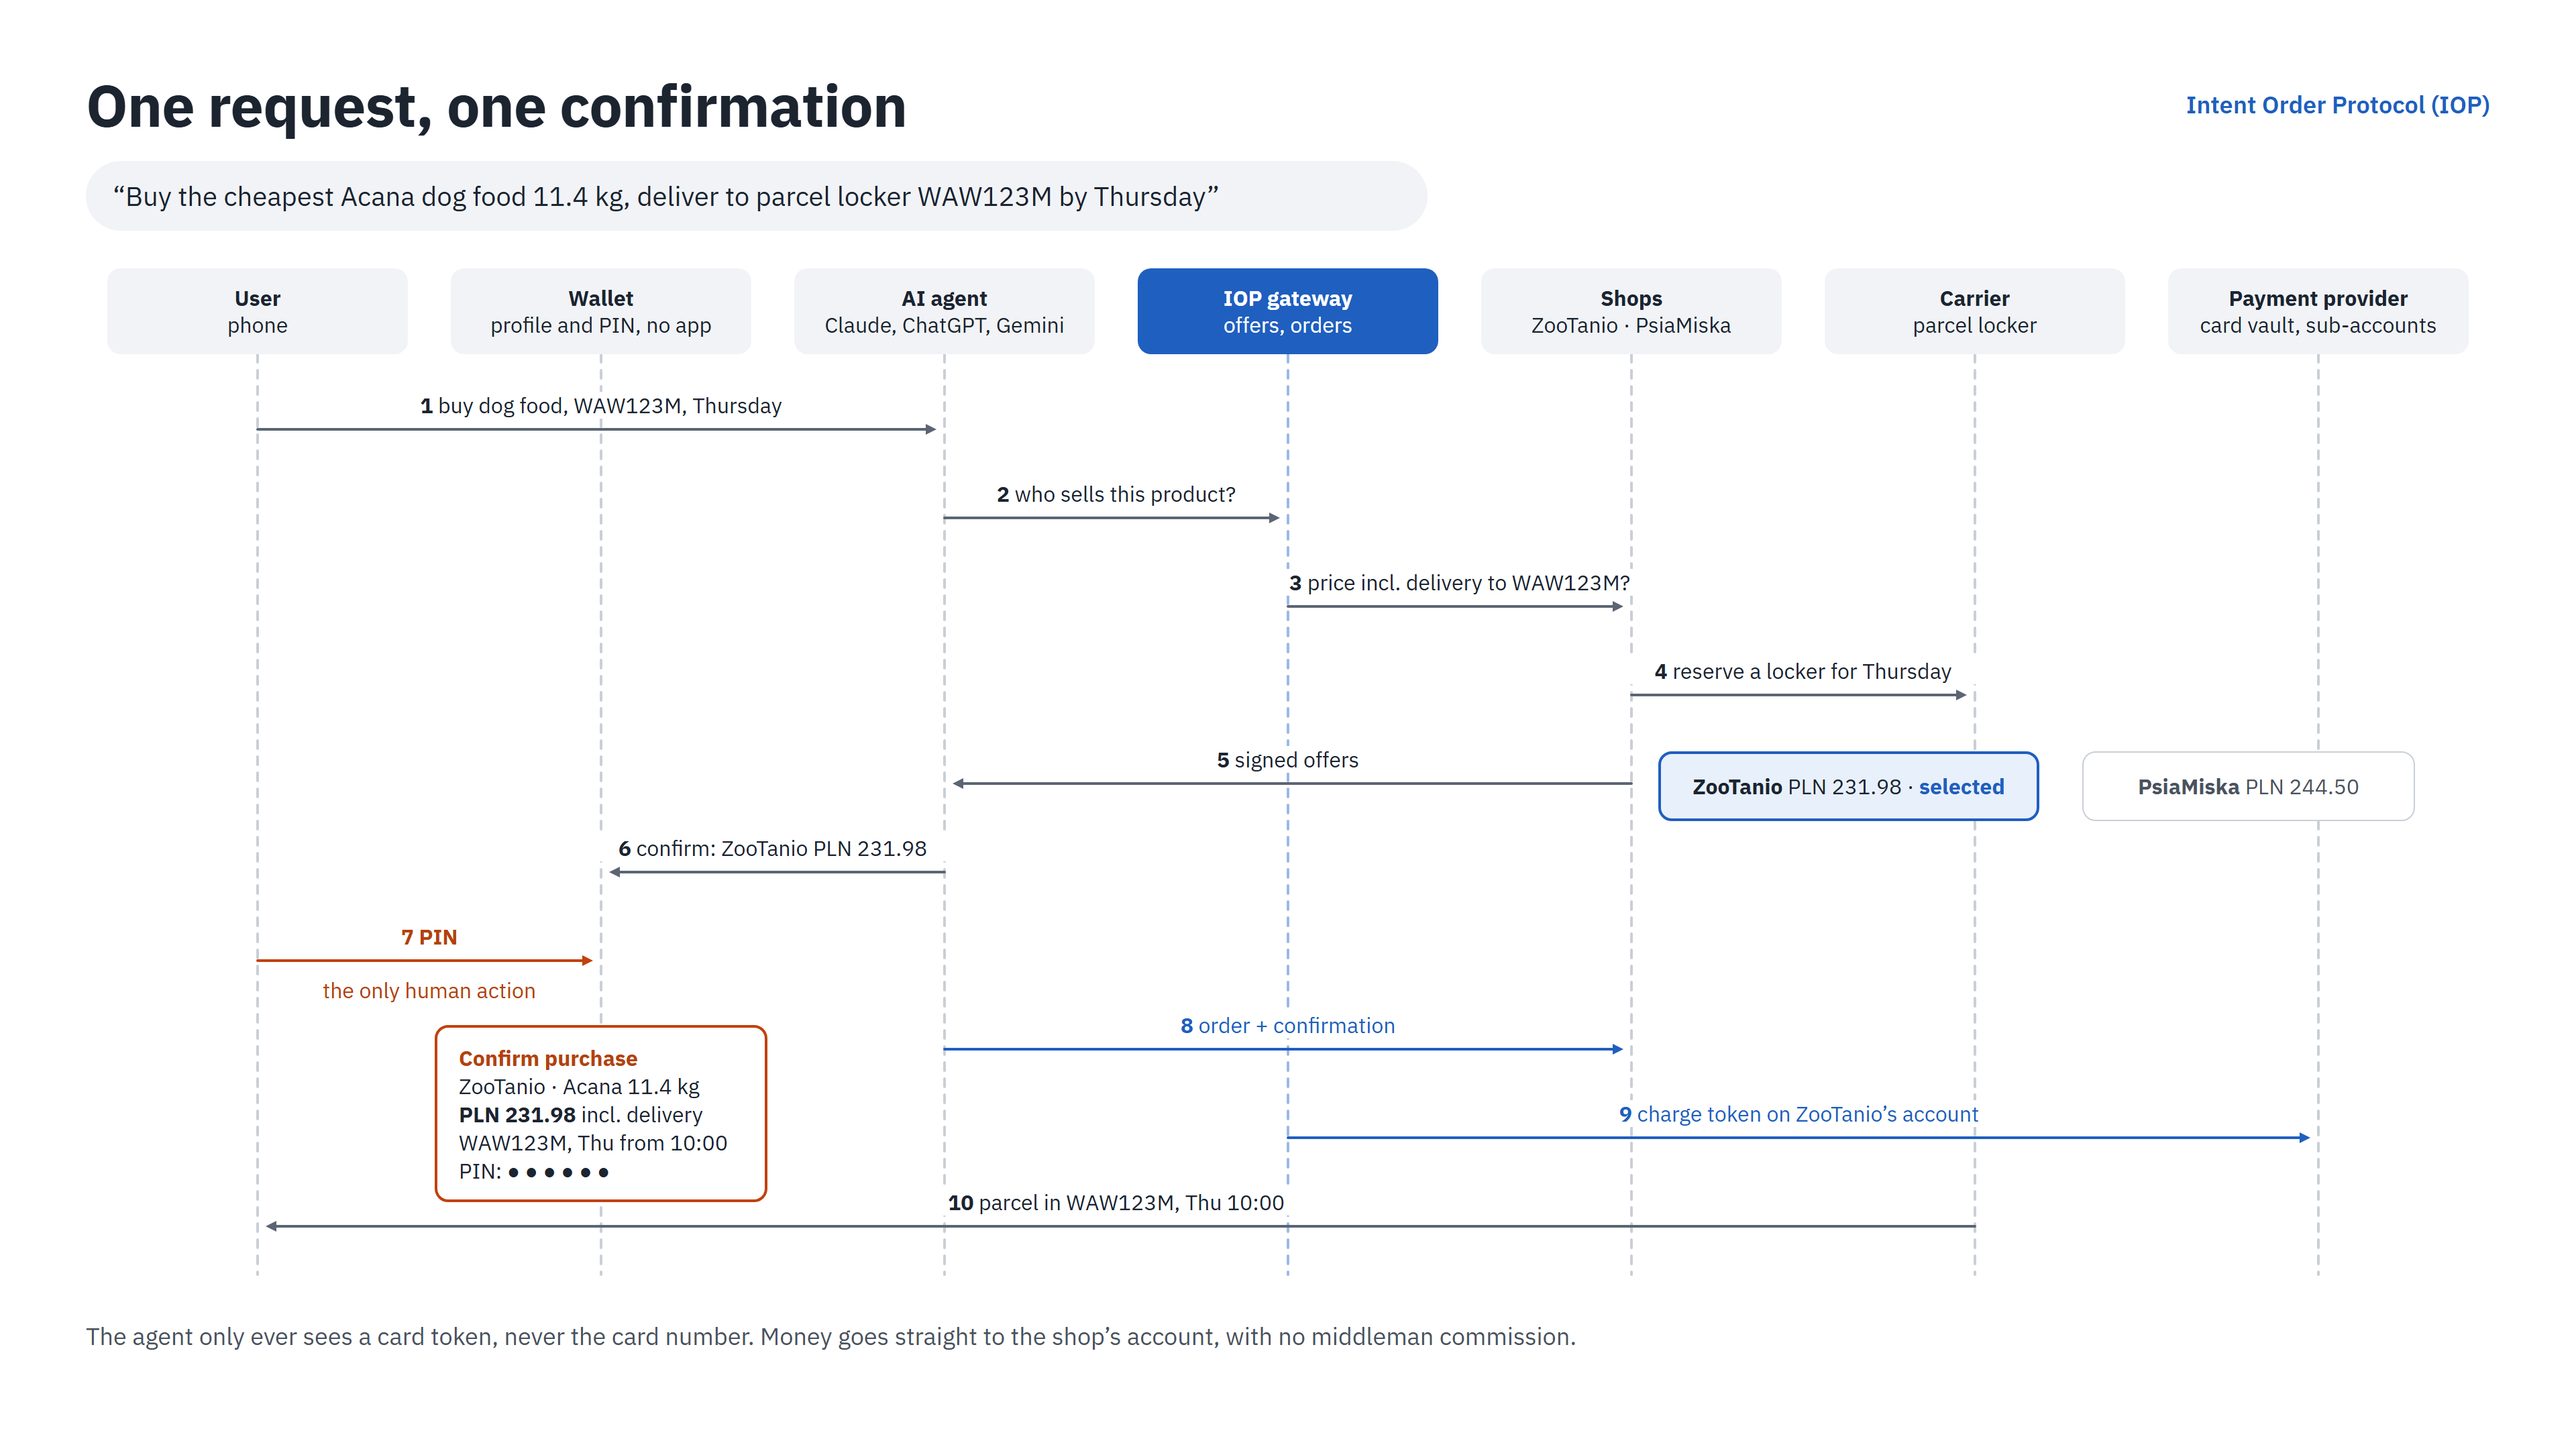
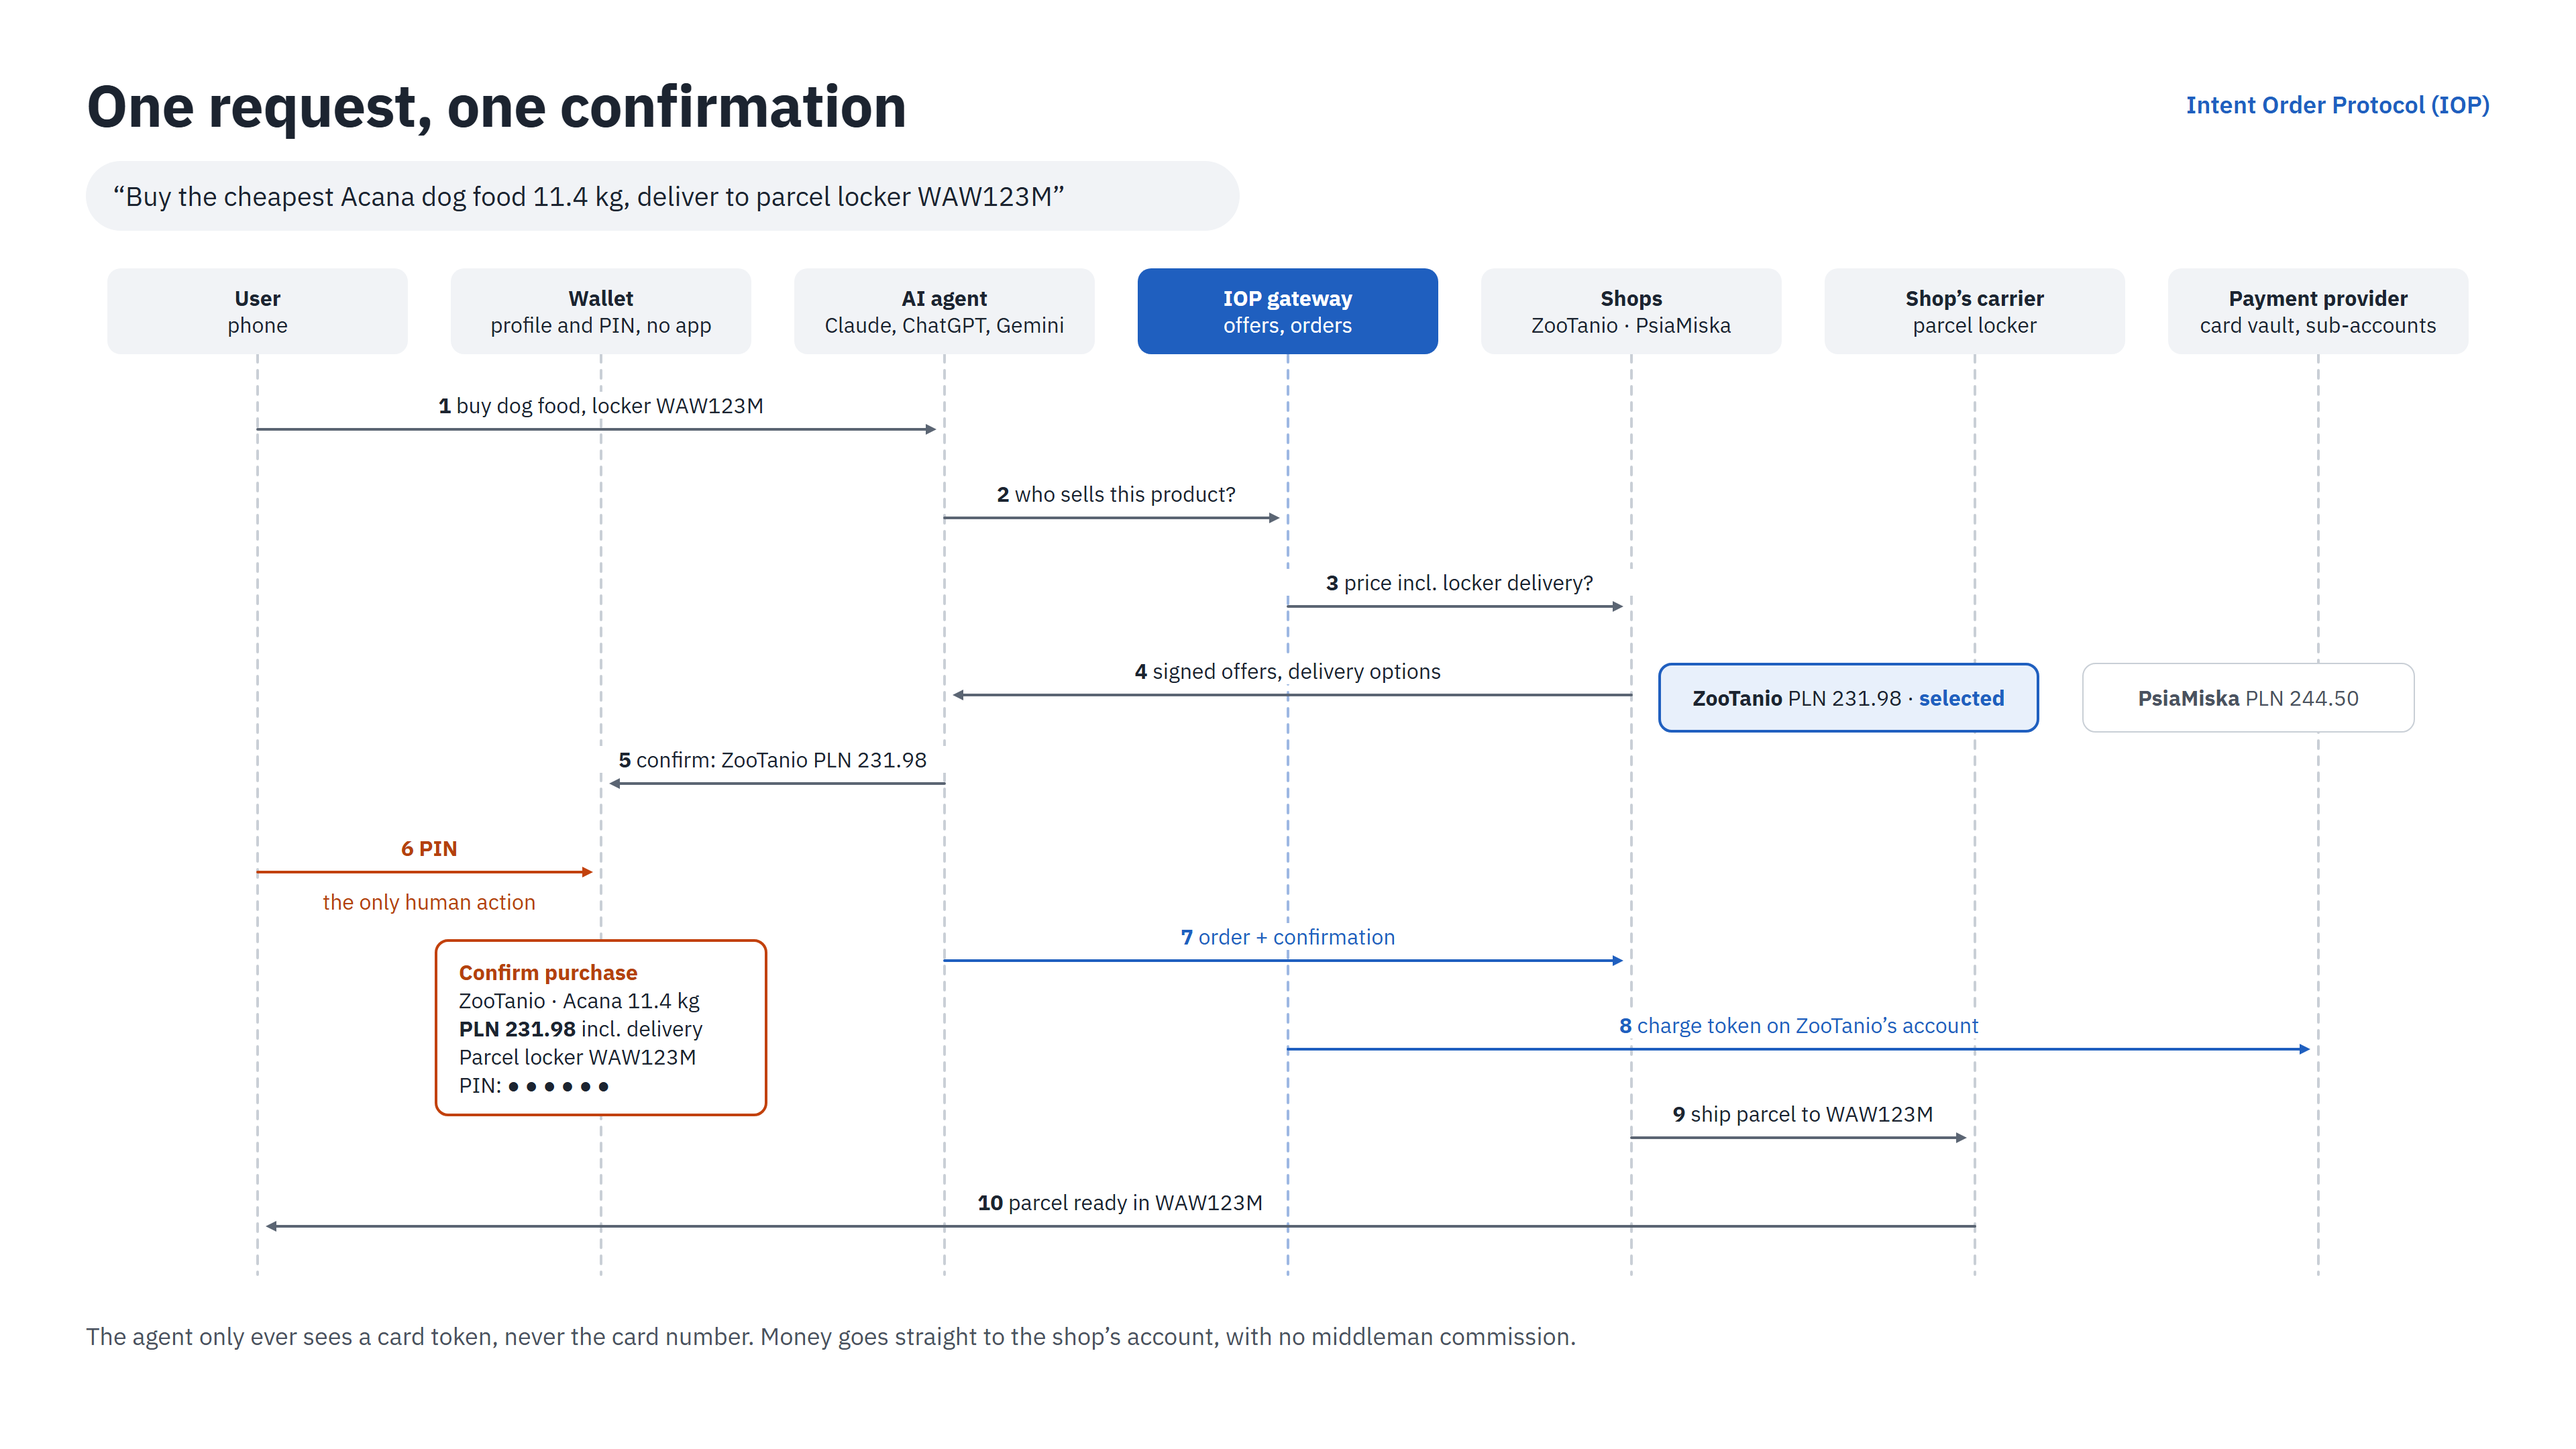
Use shop delivery options instead of locker reservations; date and EAN optional

diff --git a/README.md b/README.md
@@ -15,16 +15,14 @@ is slow and fragile, and it means handing them your card details.
 
 ## How it works
 
-1. **You say:** "Buy the cheapest Acana dog food 11.4 kg, deliver to parcel locker WAW123M
-   by Thursday."
-2. **The agent asks participating shops** for signed offers: price including delivery to
-   that exact locker, with a delivery date.
-3. **The shop reserves a locker slot** with the carrier, so the date is a commitment rather
-   than an estimate.
-4. **You get one confirmation** showing the shop, product and exact amount, and enter
-   your PIN.
-5. **The order is placed and paid.** It lands in the shop's own system already paid, and
-   the parcel goes to the locker.
+1. **You say:** "Buy the cheapest Acana dog food 11.4 kg, deliver to parcel locker WAW123M."
+   What matters is the product and the delivery type and point. A date is optional.
+2. **The agent asks participating shops** for signed offers, each with the delivery options
+   the shop offers at checkout, and compares total prices including parcel-locker delivery.
+3. **You get one confirmation** showing the shop, the exact product and the exact amount,
+   and enter your PIN.
+4. **The order is placed and paid.** It lands in the shop's own system already paid.
+5. **The shop ships as usual** with its own carrier, and the parcel goes to your locker.
 
 ## Principles
 
@@ -40,12 +38,14 @@ is slow and fragile, and it means handing them your card details.
 ## What IOP adds to existing standards
 
 Existing agentic-commerce standards let an agent buy in **one shop it already knows**.
-IOP adds three things:
+IOP adds two things:
 
-- **Cross-shop offers:** one query to many shops, compared on total price including delivery
-- **Delivery promises:** a guaranteed date backed by a carrier reservation, not an estimate
-- **Carriers as first-class participants:** parcel lockers and pickup points, not just a
-  shipping address
+- **Cross-shop offers:** one query to many shops, matched by product name, description and
+  attributes (EAN when available), compared on total price including the chosen delivery
+- **One wallet for many independent shops:** one saved card and one PIN confirmation,
+  outside closed ecosystems
+
+Delivery options, including parcel lockers, reuse UCP's existing fulfillment extension.
 
 ## Status
 
